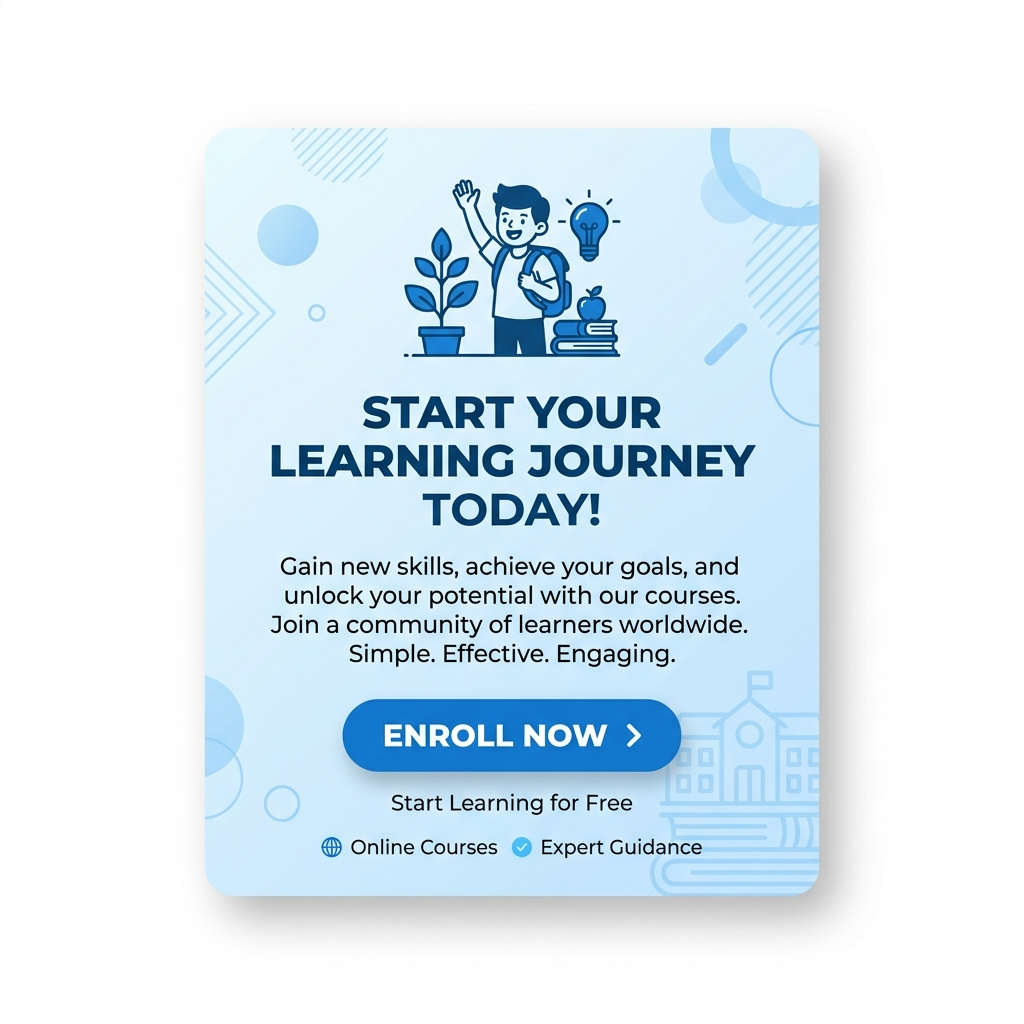
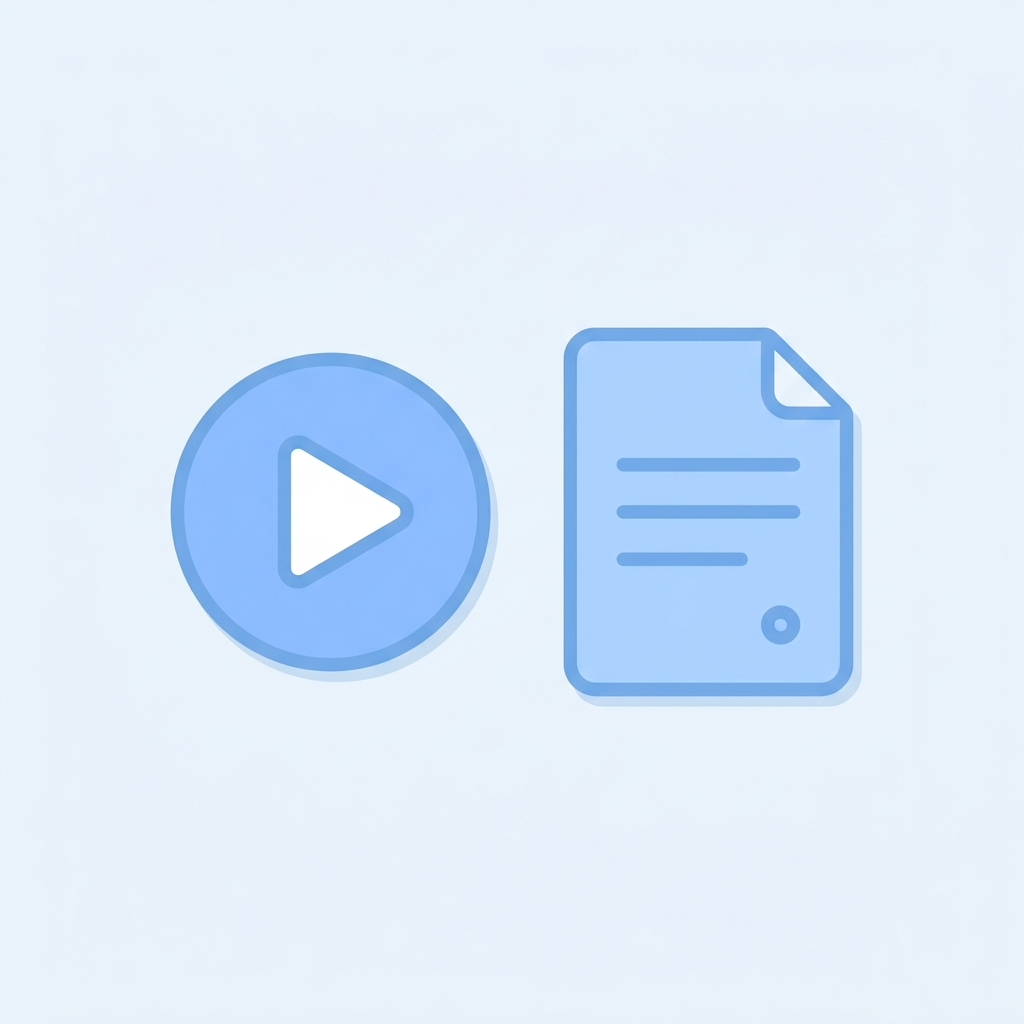
feat(ui): menu perfil dropdown en topbar, ajustes descargar txt y nuevos comp interactivos

diff --git a/Frontend/src/app/pages/dashboard/dashboard.component.html b/Frontend/src/app/pages/dashboard/dashboard.component.html
@@ -22,29 +22,30 @@
         <span class="material-symbols-outlined">view_module</span> Componentes
       </a>
     </nav>
-    <div class="mt-auto border-t border-outline-variant dark:border-outline p-md flex flex-col gap-1">
-      <div class="flex items-center gap-sm mb-2 px-2">
-        <div class="w-10 h-10 rounded-full bg-secondary text-white flex items-center justify-center font-bold overflow-hidden">
-          <img *ngIf="fotoInstitucional" [src]="fotoInstitucional" class="w-full h-full object-cover">
-          <span *ngIf="!fotoInstitucional">AA</span>
-        </div>
-        <div>
-          <p class="font-bold text-sm">Academic Admin</p>
-          <p class="text-xs text-outline">Institucional</p>
-        </div>
-      </div>
-      <a (click)="setSeccion('configuracion')" [class.bg-secondary-container]="seccionActiva === 'configuracion'" class="flex items-center gap-sm px-lg py-2 hover:bg-surface-container-high transition-all cursor-pointer font-bold dark:text-white rounded text-sm">
-        <span class="material-symbols-outlined text-[18px]">settings</span> Configuración
-      </a>
-      <a class="flex items-center gap-sm px-lg py-2 hover:bg-error-container hover:text-error transition-all cursor-pointer font-bold rounded text-sm text-outline">
-        <span class="material-symbols-outlined text-[18px]">logout</span> Cerrar Sesión
-      </a>
-    </div>
   </aside>
 
   <!-- Main Content Area -->
   <!-- Modificado para que ocupe el ancho sin margin sobrante -->
   <main class="flex-1 overflow-y-auto p-xl bg-background dark:bg-surface-dim transition-colors relative flex flex-col w-full">
+
+    <!-- Unified Topbar Profile -->
+    <div class="absolute top-4 right-6 z-50">
+      <div class="relative">
+        <button (click)="menuPerfilAbierto = !menuPerfilAbierto" class="w-10 h-10 rounded-full bg-secondary text-white flex items-center justify-center font-bold hover:ring-2 hover:ring-primary transition-all shadow-md">
+          <img *ngIf="fotoInstitucional" [src]="fotoInstitucional" class="w-full h-full object-cover rounded-full">
+          <span *ngIf="!fotoInstitucional">AA</span>
+        </button>
+        <!-- Dropdown Menu -->
+        <div *ngIf="menuPerfilAbierto" class="absolute right-0 mt-2 w-48 bg-surface-container-lowest dark:bg-surface-container border border-outline-variant dark:border-outline rounded-lg shadow-lg overflow-hidden animate-fade-in z-50">
+           <a (click)="setSeccion('configuracion'); menuPerfilAbierto = false" class="block px-4 py-3 text-sm font-bold hover:bg-surface-container-low cursor-pointer dark:hover:bg-surface-container-high flex items-center gap-2 border-b border-outline-variant dark:border-outline">
+             <span class="material-symbols-outlined text-[18px]">settings</span> Configuración
+           </a>
+           <a (click)="cerrarSesion()" class="block px-4 py-3 text-sm font-bold text-error hover:bg-error-container cursor-pointer flex items-center gap-2">
+             <span class="material-symbols-outlined text-[18px]">logout</span> Cerrar Sesión
+           </a>
+        </div>
+      </div>
+    </div>
 
     <!-- REPOSITORIO -->
     <div *ngIf="seccionActiva === 'recursos'" class="w-full max-w-[1400px] mx-auto animate-fade-in flex flex-col">
@@ -332,6 +333,31 @@
                       <div class="absolute w-full h-full bg-[#003087] text-white rounded flex justify-center items-center text-center p-4 [transform:rotateY(180deg)] [backface-visibility:hidden]">
                         <p class="text-sm m-0">Definen el comportamiento que se tendrá en cada mercado para sostener ventajas.</p>
                       </div>
+                    </div>
+                  </div>
+               </div>
+            </div>
+
+            <!-- Acordeon Component -->
+            <div class="border border-outline-variant dark:border-outline p-md rounded bg-surface-container-low dark:bg-[#121212] mt-4">
+               <div class="flex justify-between items-start mb-4">
+                 <h3 class="font-bold text-sm text-on-surface dark:text-white">Acordeón de Contenidos Expandible</h3>
+               </div>
+               <div class="bg-white text-black p-md border rounded shadow-sm">
+                  <div class="dp-panels-wrapper dp-accordion-default border border-[#b2e5ed] rounded overflow-hidden">
+                    <div class="dp-panel-group border-b border-[#b2e5ed]">
+                      <h3 class="dp-panel-heading bg-[#e0f7fa] m-0 p-3 text-[#006972] font-bold cursor-pointer hover:bg-[#b2e5ed] transition flex justify-between items-center">
+                        <strong>Título Nivel 1</strong>
+                        <span class="material-symbols-outlined text-sm">expand_more</span>
+                      </h3>
+                      <div class="dp-panel-content p-4 bg-white"><p class="m-0 text-sm">Texto descriptivo que se revela al expandir el acordeón. Ideal para dosificar lectura.</p></div>
+                    </div>
+                    <div class="dp-panel-group">
+                      <h3 class="dp-panel-heading bg-gray-50 m-0 p-3 text-gray-700 font-bold cursor-pointer hover:bg-gray-100 transition flex justify-between items-center">
+                        <strong>Título Nivel 2</strong>
+                        <span class="material-symbols-outlined text-sm">expand_less</span>
+                      </h3>
+                      <div class="dp-panel-content p-4 bg-white hidden"><p class="m-0 text-sm">Contenido oculto.</p></div>
                     </div>
                   </div>
                </div>

diff --git a/Frontend/src/app/pages/dashboard/dashboard.component.ts b/Frontend/src/app/pages/dashboard/dashboard.component.ts
@@ -185,9 +185,12 @@ export class DashboardComponent implements OnInit {
     }
   }
 
+  menuPerfilAbierto = false;
+
   descargarTxtHtml() {
-    if (this.recursoSeleccionado && this.recursoSeleccionado.htmlEditado) {
-      const blob = new Blob([this.recursoSeleccionado.htmlEditado], { type: 'text/plain' });
+    const contenido = this.recursoSeleccionado?.htmlEditado || this.recursoSeleccionado?.html;
+    if (this.recursoSeleccionado && contenido) {
+      const blob = new Blob([contenido], { type: 'text/plain;charset=utf-8' });
       const url = window.URL.createObjectURL(blob);
       const a = document.createElement('a');
       a.href = url;
@@ -195,7 +198,7 @@ export class DashboardComponent implements OnInit {
       a.click();
       window.URL.revokeObjectURL(url);
     } else {
-      alert('No hay contenido HTML para descargar.');
+      alert('Seleccione un recurso para descargar.');
     }
   }
 
@@ -205,6 +208,11 @@ export class DashboardComponent implements OnInit {
   copiarComoImagen() { alert('Copiando previsualización como imagen al portapapeles...'); }
   deshacer() { alert('Deshacer acción (Mock)'); }
   rehacer() { alert('Rehacer acción (Mock)'); }
+
+  cerrarSesion() {
+    alert('Cerrando sesión...');
+    this.menuPerfilAbierto = false;
+  }
 
   getRecursosFiltrados() {
     if (this.filtroMateria === 'Todas') return this.recursos;
